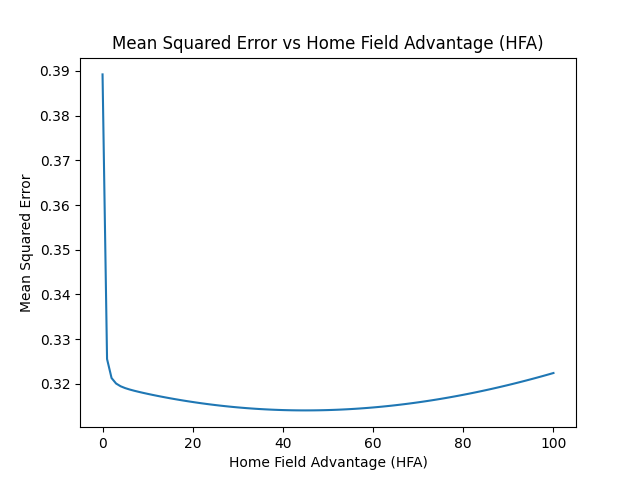
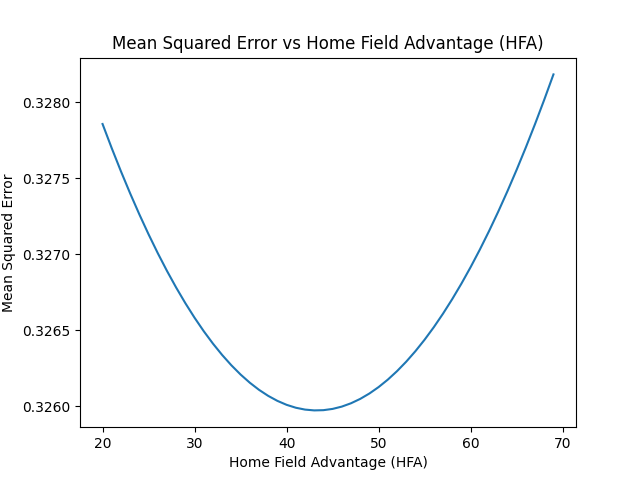
[FIX] 'update_elo_ratings' func param

diff --git a/step3_HFA.py b/step3_HFA.py
@@ -19,7 +19,7 @@ def expected_score(rating1, rating2):
 
 ## -------------------- function: update Elo ratings ------------------- ##
 
-def update_elo_ratings(home_team, away_team, home_goals, away_goals, K, HFA):
+def update_elo_ratings(home_team, away_team, home_goals, away_goals, K, HFA, elo_ratings):
     home_rating = elo_ratings[home_team]+HFA
     away_rating = elo_ratings[away_team]
     
@@ -52,8 +52,8 @@ def encode_result(home_score, away_score):
         return 0.5, 0.5
 
 #### -------------------------------------------------------------------------------------------------------------------------------------------- ####
-K = 7.6 #from step2 py file  
-HFA_values = np.arange(0, 101, 1)  # Home Field Advantage values from 0 to 100 in increments of 1
+K = 28.5 #from step2 py file  
+HFA_values = np.arange(20, 70, 1)  # Home Field Advantage values from 0 to 100 in increments of 1
 errors = []
 
 for HFA in HFA_values:
@@ -74,7 +74,7 @@ for HFA in HFA_values:
         expected_home = expected_score(home_rating, away_rating)
         expected_away = expected_score(away_rating, home_rating)
 
-        update_elo_ratings(home_team, away_team, home_score, away_score, K, HFA)
+        update_elo_ratings(home_team, away_team, home_score, away_score, K, HFA, ratings)
 
         squared_errors.append((expected_home - home_result)**2 + (expected_away - away_result)**2)
 
@@ -96,6 +96,6 @@ print(f"The best Home Field Advantage (HFA) is: {best_HFA}")
 
 ratings = elo_ratings.copy()
 for index, row in df.iterrows():
-    update_elo_ratings(row['Home'], row['Away'], row['Home_Score'], row['Away_Score'], K, best_HFA)
+    update_elo_ratings(row['Home'], row['Away'], row['Home_Score'], row['Away_Score'], K, best_HFA, ratings)
 
-print(elo_ratings)
+print(ratings)

diff --git a/step2_K_factor.py b/step2_K_factor.py
@@ -20,7 +20,7 @@ def expected_score(rating1, rating2):
 
 ## -------------------- function: update Elo ratings ------------------- ##
 
-def update_elo_ratings(home_team, away_team, home_goals, away_goals, K):
+def update_elo_ratings(home_team, away_team, home_goals, away_goals, K, elo_ratings):
     home_rating = elo_ratings[home_team]
     away_rating = elo_ratings[away_team]
     
@@ -54,7 +54,7 @@ def encode_result(home_score, away_score):
 # Test different K values
 # K_values = np.arange(7, 25.1, 0.1)
 # K_values = np.arange(0, 35.5, 0.5)
-K_values = np.arange(7, 35.5, 0.1)
+K_values = np.arange(7, 35.5, 0.5)
 
 errors = []
 
@@ -76,7 +76,7 @@ for K in K_values:
         expected_home = expected_score(home_rating, away_rating)
         expected_away = expected_score(away_rating, home_rating)
 
-        update_elo_ratings(home_team, away_team, home_score, away_score, K)
+        update_elo_ratings(home_team, away_team, home_score, away_score, K, ratings)
 
         squared_errors.append((expected_home - home_result)**2 + (expected_away - away_result)**2)
 
@@ -97,6 +97,6 @@ print(f"The best K-factor is: {best_K}") # 16
 
 ratings = elo_ratings.copy()
 for index, row in df.iterrows():
-    update_elo_ratings(row['Home'], row['Away'], row['Home_Score'], row['Away_Score'], best_K)
+    update_elo_ratings(row['Home'], row['Away'], row['Home_Score'], row['Away_Score'], best_K, ratings)
 
-print(elo_ratings)
+print(ratings)
